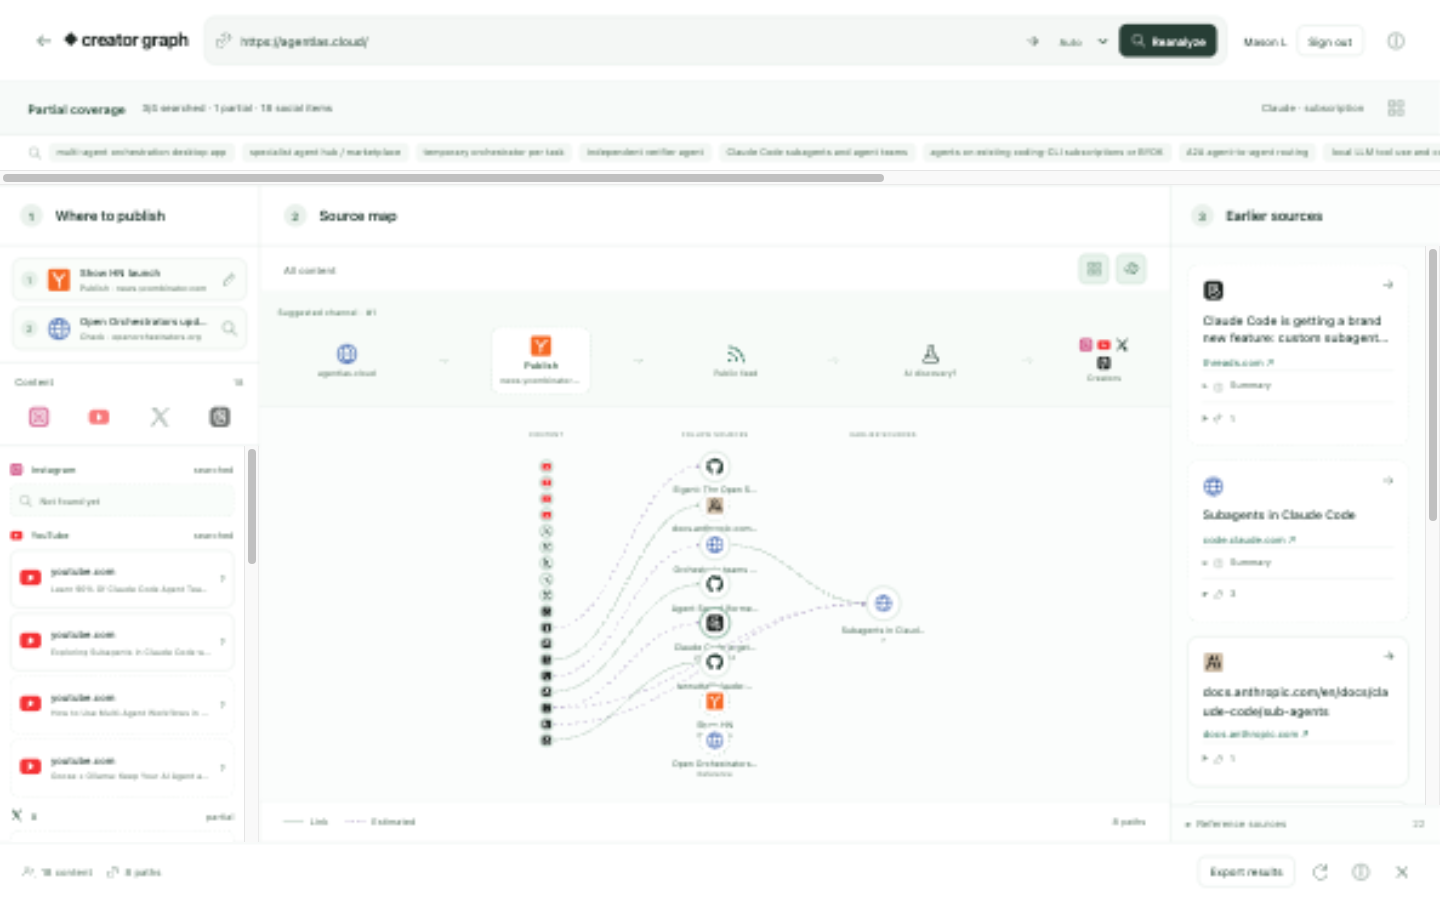
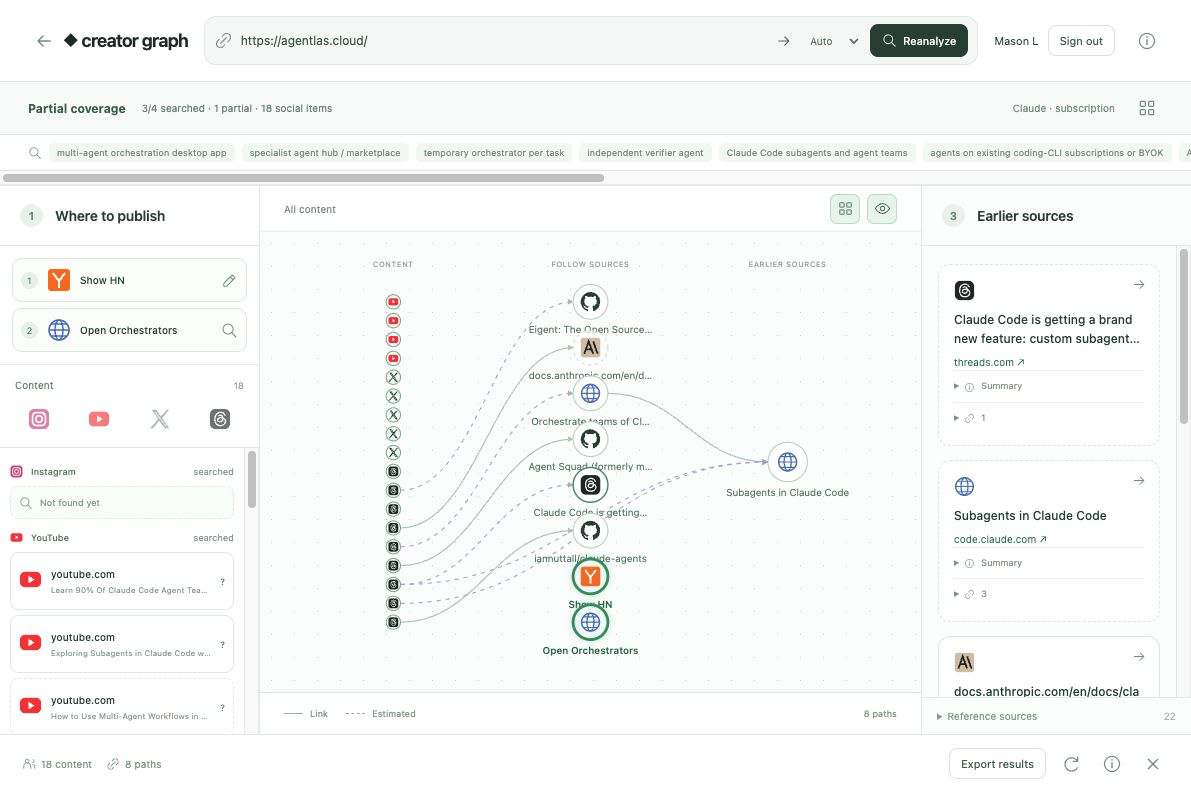
Release 0.7.1 with a simpler graph workspace

diff --git a/README.md b/README.md
@@ -54,7 +54,7 @@ The host derives roughly 6–10 keyword angles from the opened target to find a 
 
 The graph opens with all collected content and its source connections visible. Click a content item to focus on its upstream path; return to the overview to compare the whole investigation.
 
-The left panel shows publication channel suggestions as icons and short names, alongside the four-platform content sample. Hover for one short summary and an original link. Select a channel to see its compact brand → channel → feed → possible AI discovery → creators route. Reference originals stay separate.
+Under **Where to publish**, the left panel shows recommended channels as logos and short names alongside the four-platform content sample. Green borders highlight those channels in the relationship graph; select a channel to focus its node. Hover for a brief summary and original, submission, feed and rules links.
 
 A project homepage, repository or paper—such as LangGraph—is a reference original, not automatically a place to distribute your product. Your own GitHub and docs hold verifiable product evidence. Real channel suggestions need a separate submission/publication route, its public rules, and an opened feed or index where new entries can be found. A community Show HN route, launch directory or newsletter tip route can be considered only when that evidence is available. Do not assume those channels supplied the traced creator posts. Suggestions without verified placement metadata remain reference-only; acceptance, creator AI use and visibility probability are unverified unless independently observed.
 

diff --git a/CHANGELOG.md b/CHANGELOG.md
@@ -1,5 +1,12 @@
 # Changelog
 
+## 0.7.1 — 2026-10-05
+
+- Removes the duplicate Source map heading and separate suggested-channel route to give the relationship graph more space.
+- Shows publication channels as logos and short names under Where to publish, with green borders on the matching graph nodes.
+- Keeps channel summaries and original, submission, feed and rules links in the floating preview.
+- Preserves content-path selection, the whole-graph overview and source-detail expansion without adding suggested provenance links.
+
 ## 0.7.0 — 2026-10-05
 
 - Fixes failed reanalysis when an older submission page remains in history; newly opened submission pages still require supporting evidence.
